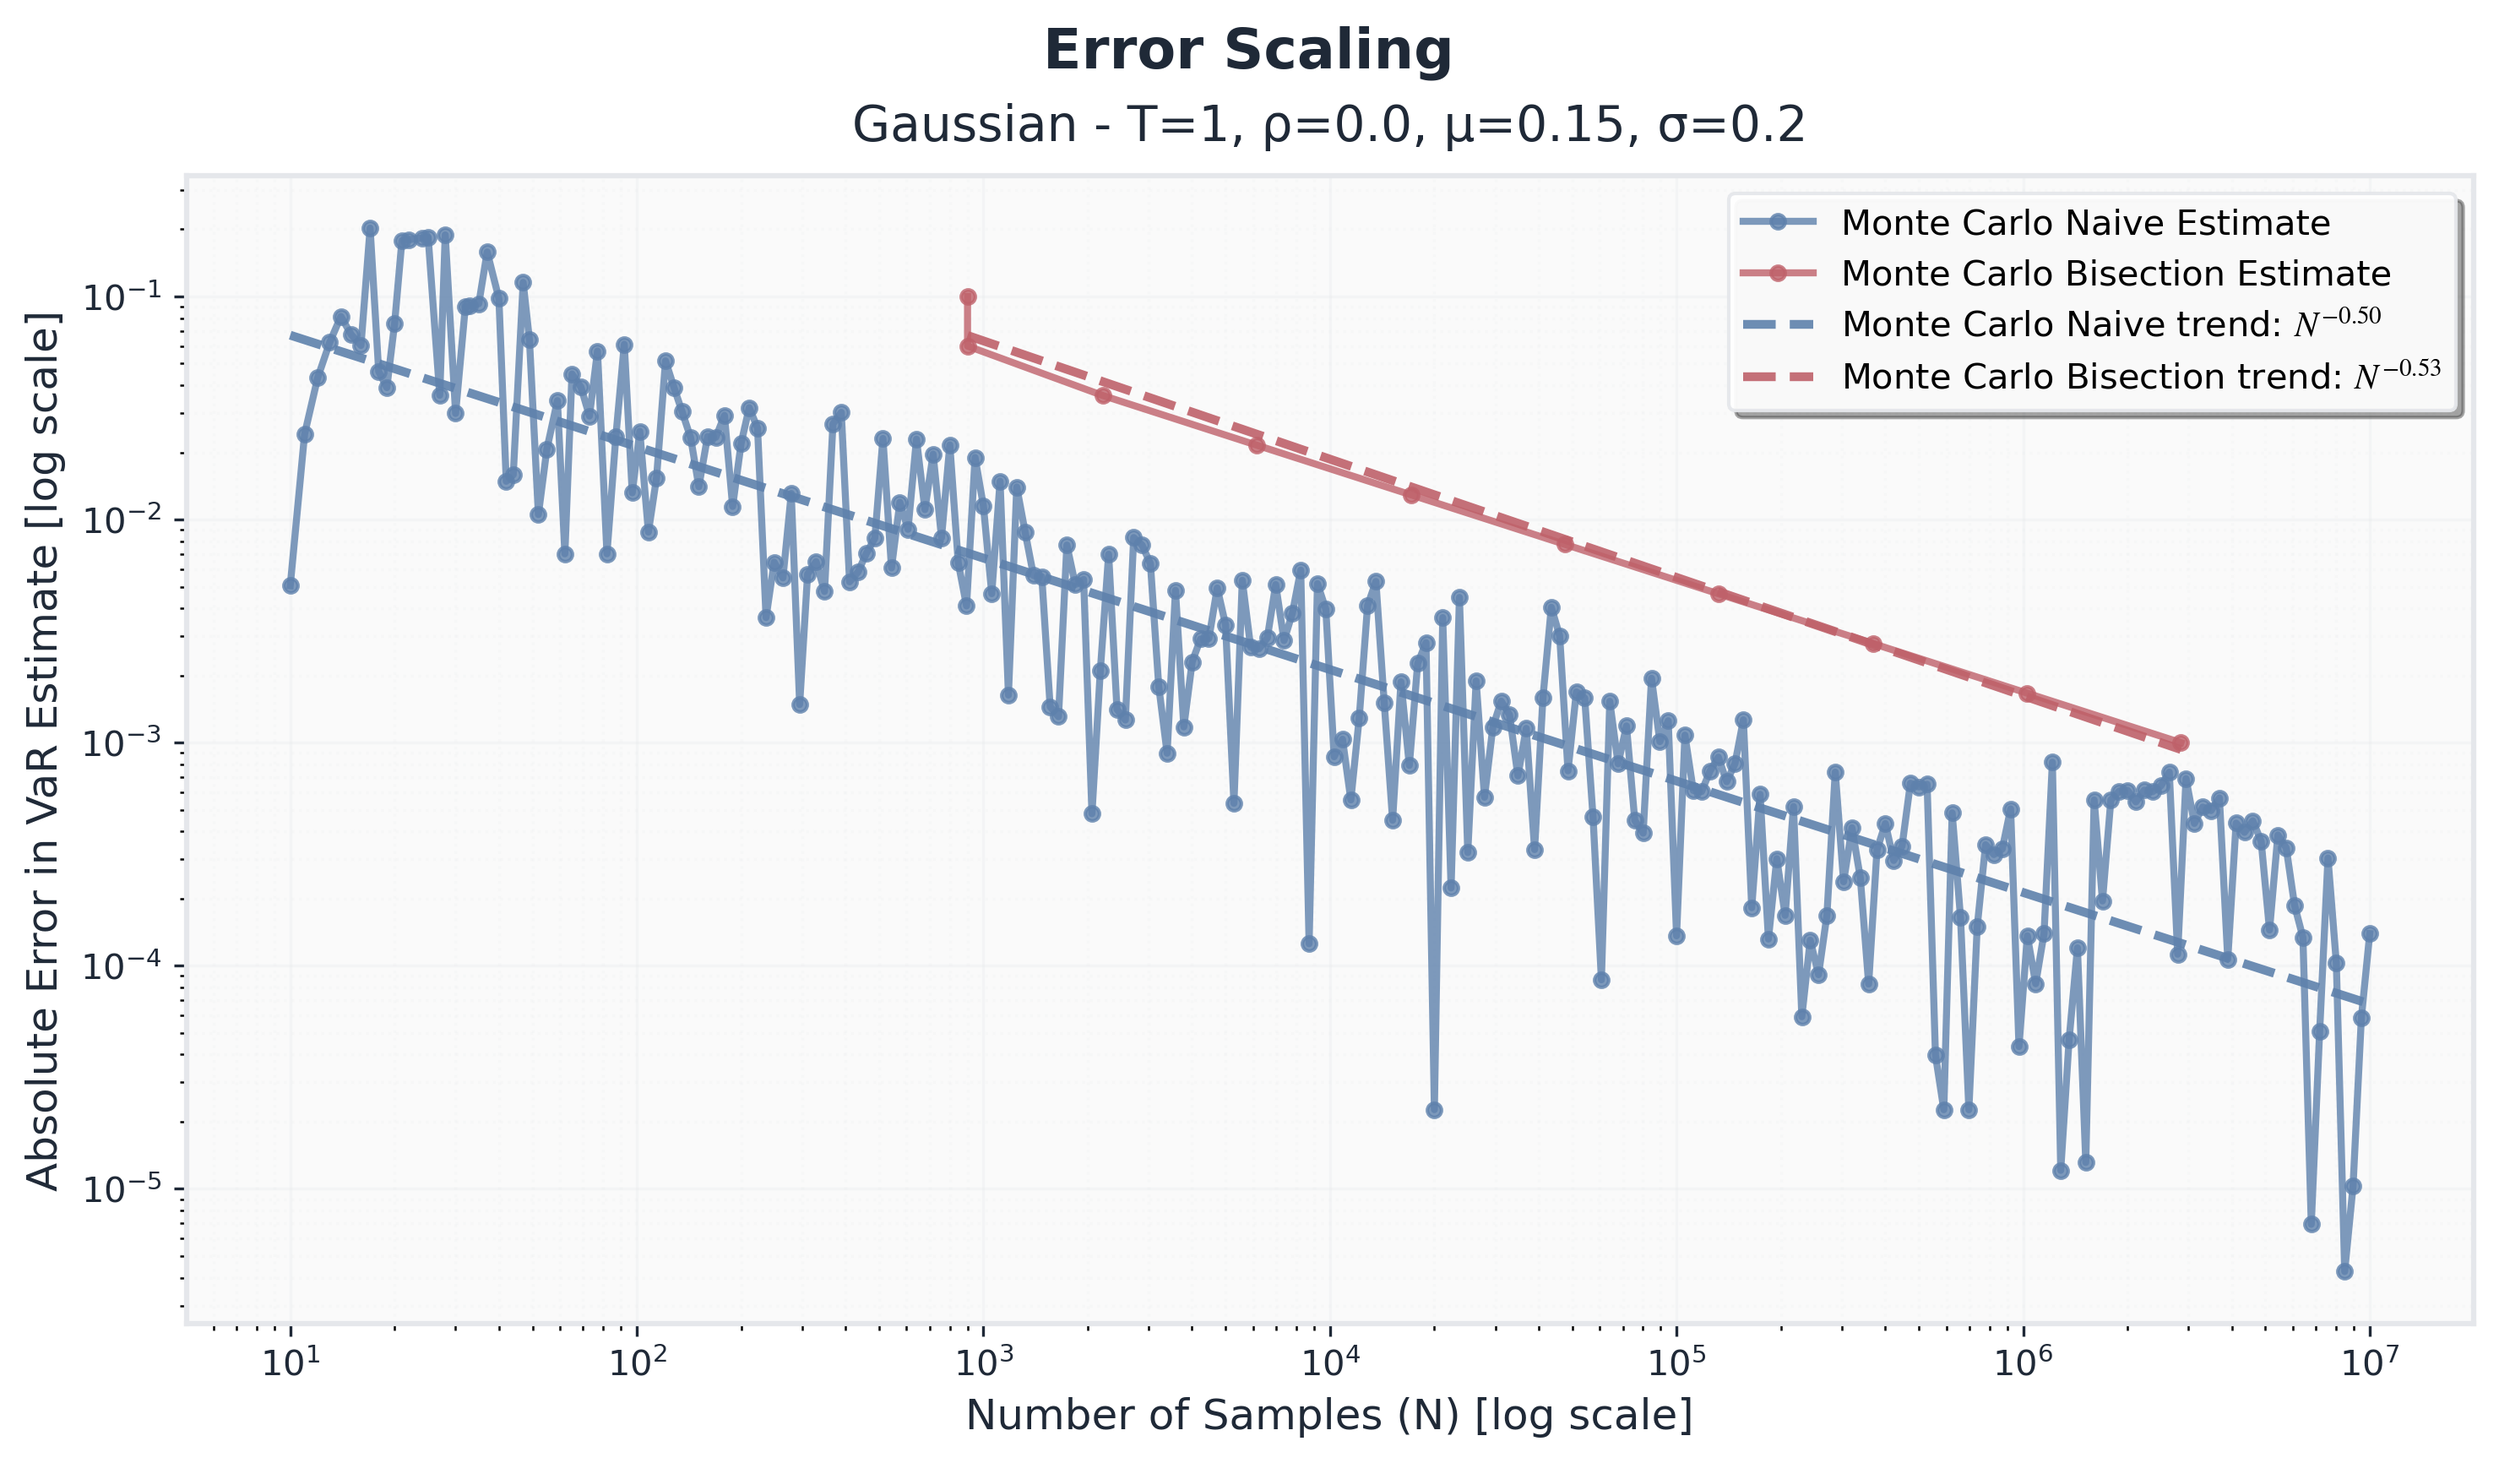
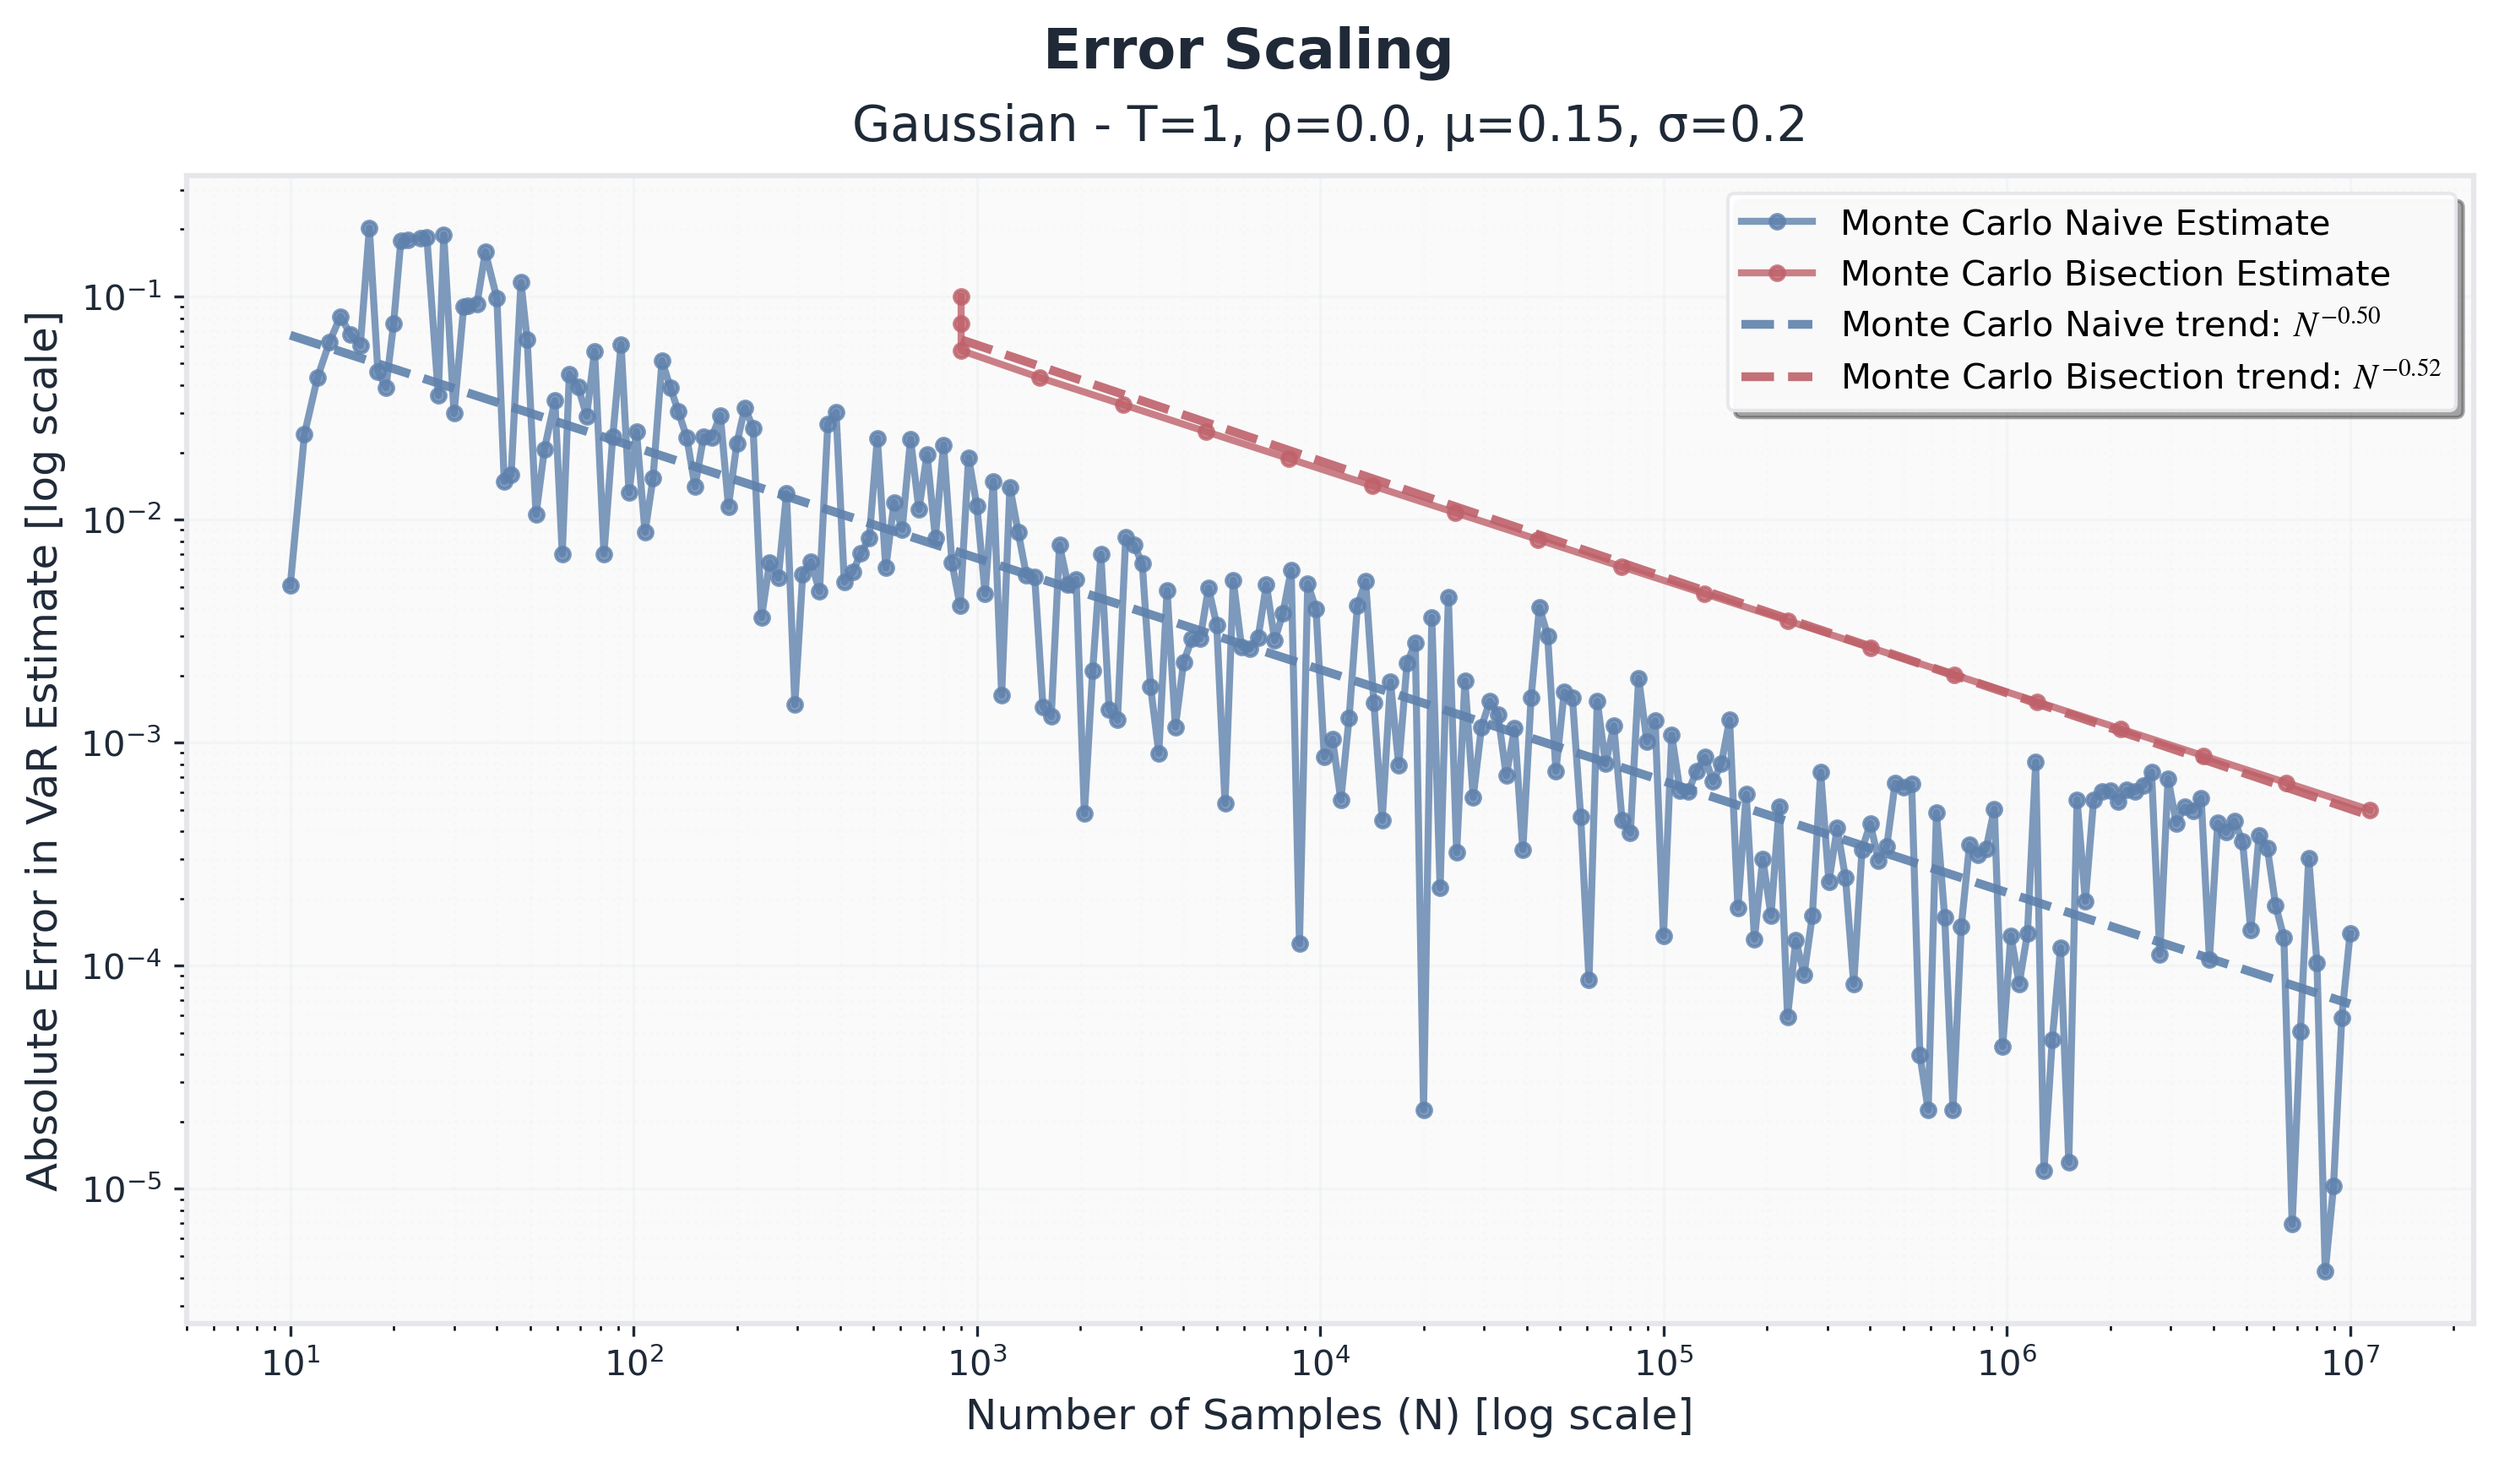
more data for mc bisect

diff --git a/hyperparameter-sweep/gen_mc_biset.py b/hyperparameter-sweep/gen_mc_biset.py
@@ -49,8 +49,8 @@ df = 3                         # Degrees of freedom for Student-t
 skew_alpha = 7.0               # Skew parameter for skew-normal
 rho = 0.0                      # AR(1) correlation coefficient
 
-# OUTPUT = '../graphs/data/monte_carlo_bisect.csv'
-OUTPUT = '../step1/quantum/results/mc_sweep.csv'
+OUTPUT = '../graphs/data/monte_carlo_bisect.csv'
+# OUTPUT = '../step1/quantum/results/mc_sweep.csv'
 
 # Make directories for output
 os.makedirs(os.path.dirname(OUTPUT), exist_ok=True)
@@ -67,20 +67,19 @@ class MonteCarloResult:
     error: float
 
 E_MAX = 0.1
-E_MIN = 0.001
-epsilon_values = np.logspace(np.log10(E_MAX), np.log10(E_MIN), num=10)
-A_COUNT = 20
-A_MIN = 0.01
-A_MAX = 0.10
-var_alphas = np.linspace(A_MIN, A_MAX, A_COUNT).tolist()
+E_MIN = 0.0005
+epsilon_values = np.logspace(np.log10(E_MAX), np.log10(E_MIN), num=20)
+# A_COUNT = 20
+# A_MIN = 0.01
+# A_MAX = 0.10
+# var_alphas = np.linspace(A_MIN, A_MAX, A_COUNT).tolist()
 
 mc_results = []
-with alive_progress.alive_bar(len(epsilon_values) * len(var_alphas)) as bar:
+with alive_progress.alive_bar(len(epsilon_values)) as bar:
 	for epsilon in epsilon_values:
-          for alpha in var_alphas:
             var_estimate, theoretical_var, num_samples = get_val(epsilon, alpha=0.05)
             print(f"Epsilon: {epsilon:.6e}, Samples: {num_samples}, VaR Estimate: {var_estimate:.6f}, Theoretical VaR: {theoretical_var:.6f}")
-            mc_results.append((alpha,
+            mc_results.append((
                 MonteCarloResult(
                     error=epsilon,
                     num_samples=num_samples,
@@ -102,14 +101,13 @@ CSV_HEADERS = [
     "mu", "sigma", "confidence_level", "T", "dist", "df", "skew_alpha", "rho"
 ]
 
-
 print(f"\nWriting results to {OUTPUT}...")
 
 # Episilon = error
 with alive_progress.alive_bar(len(mc_results)) as bar:
     with open(OUTPUT, 'w') as f:
         f.write(','.join(CSV_HEADERS) + '\n')
-        for alpha, result in mc_results:
+        for result in mc_results:
             row = [
                 f"{result.error:.6e}",
                 str(result.num_samples),
@@ -117,7 +115,7 @@ with alive_progress.alive_bar(len(mc_results)) as bar:
                 f"{theoretical_var:.6f}",
                 f"{mu:.6f}",
                 f"{sigma:.6f}",
-                f"{(1 - alpha):.6f}",
+                f"{(0.05):.6f}",
                 str(T),
                 dist,
                 str(df),
